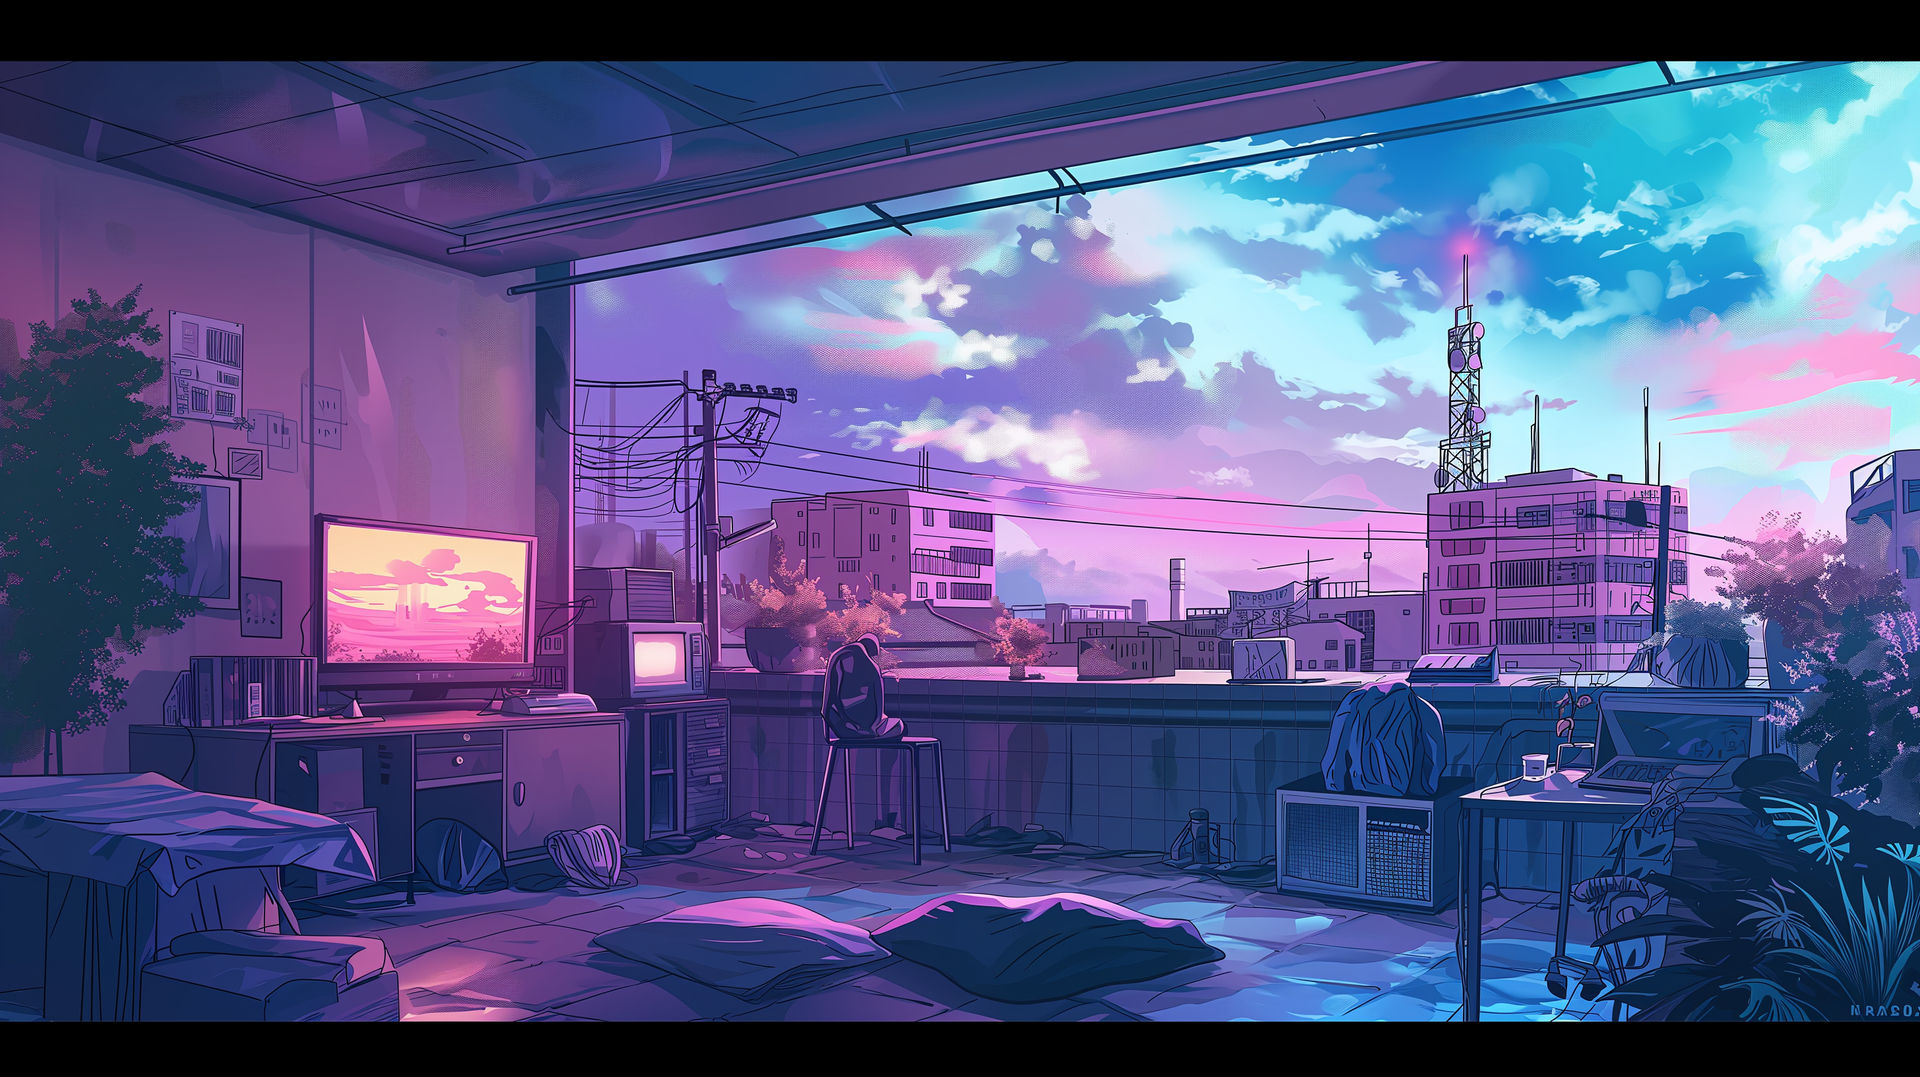
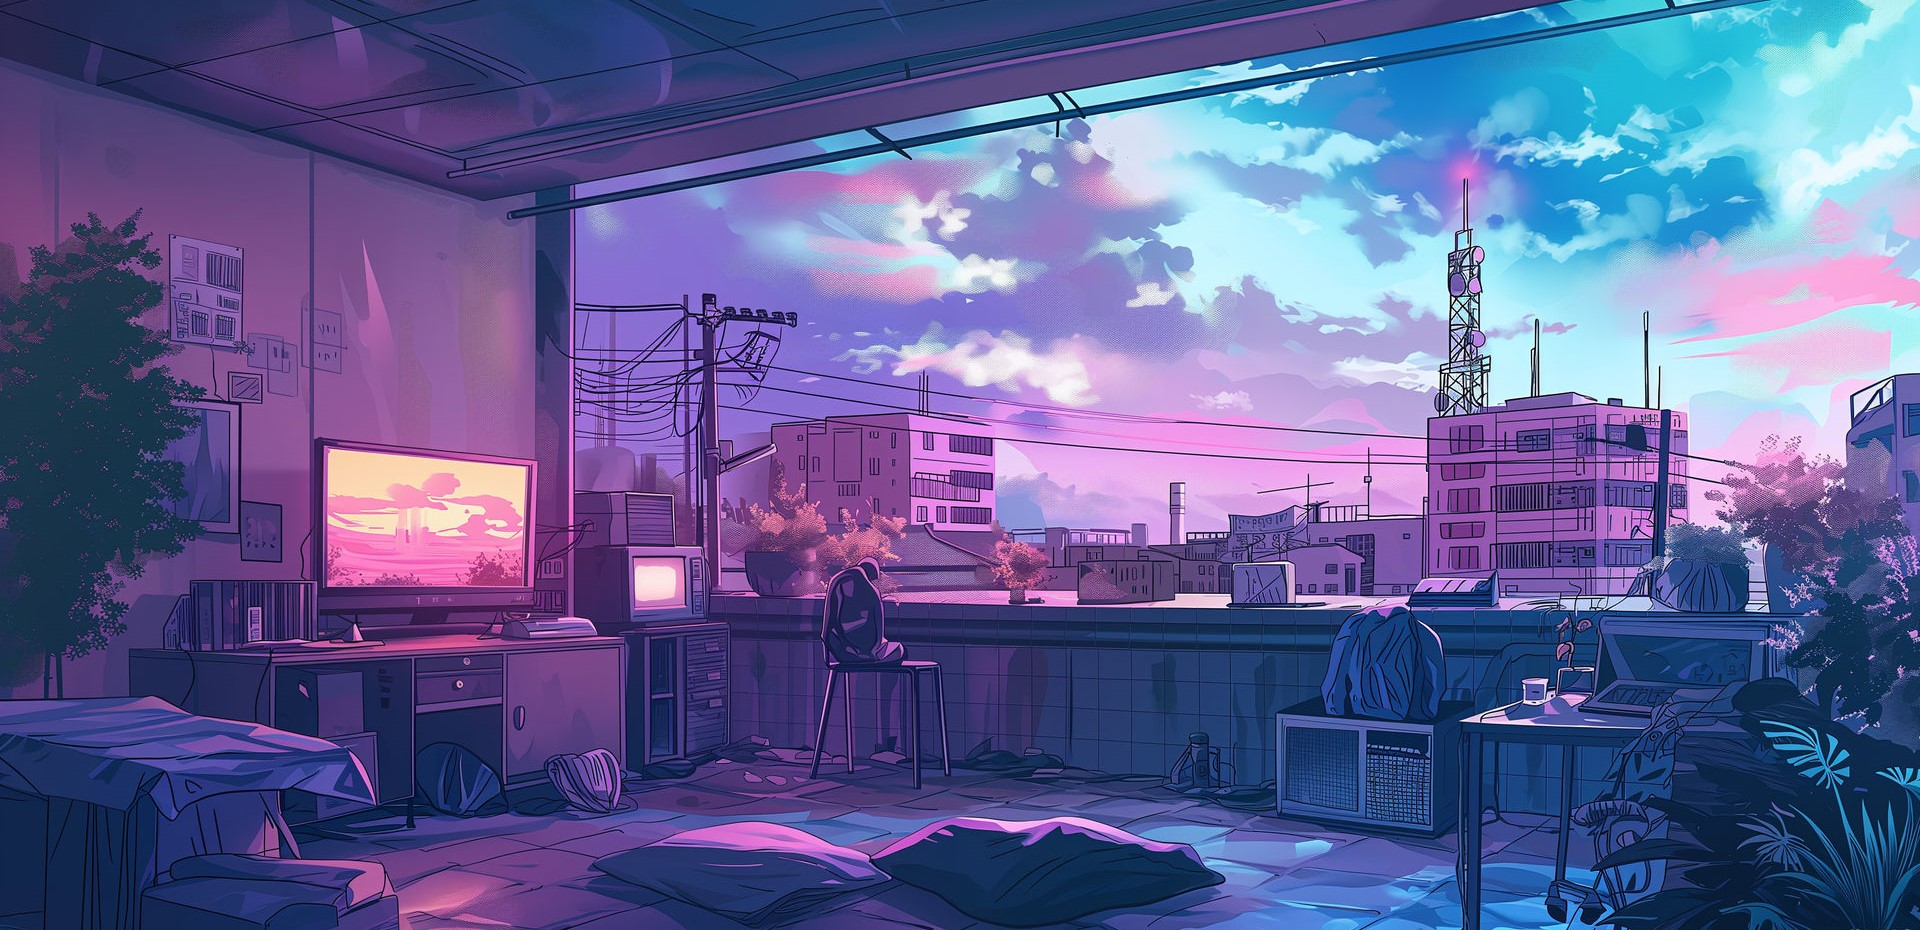
Title page redo
Removed scroll animation
Cropped background image
Started "Explore Collection" section

diff --git a/homepage.css b/homepage.css
@@ -3,18 +3,29 @@
 }
 
 ul.nav_bar {
-    position: fixed;
+    /* position: fixed;
     width: 100%;
     animation-name: fadeIn;
     animation-duration: 0.1s;
     animation-iteration-count: 1;
     animation-timeline: view(60vh);
-    animation-fill-mode: forwards;
+    animation-fill-mode: forwards; */
+    list-style-type: none;
+    margin: 0;
+    padding: 0px;
+    display: flex;
+    background-color: rgb(255, 255, 255);
+    color: rgb(52, 20, 104);
+    min-height: 100px;
+    align-items: center;
+    flex-wrap: nowrap;
+    justify-content: center;
 }
 
 ul.nav_bar li {
     margin-right: 5vw;
-    margin-right: 5vw;
+    margin-left: 5vw;
+    padding: 10px;
 }
 
 @keyframes fadeIn {
@@ -24,20 +35,15 @@ ul.nav_bar li {
     }
 
     to {
-        list-style-type: none;
-        margin: 0;
-        padding: 0;
-        display: flex;
-        background-color: rgb(0, 0, 0);
-        color: aliceblue;
-        min-height: 150px;
-        align-items: center;
-        display: flex;
-        flex-wrap: nowrap;
-        justify-content: center;
         opacity: 1;
     }
 
+}
+
+.title {
+    font-size: 60px;
+    flex-grow: 2;
+    text-align: center;
 }
 
 
@@ -53,33 +59,50 @@ ul.nav_bar li {
     /* display: flex; */
     height: 120vh;
     width: 100vw;
-    background-image: url('assets/background.jpg'),
+    background-image: url('assets/background.jpg')
+        /*,
         linear-gradient(to right, rgba(0, 0, 0, 0) 90vw, rgb(0, 0, 0) 98vw),
         linear-gradient(to left, rgba(0, 0, 0, 0) 90vw, rgb(0, 0, 0) 98vw),
         linear-gradient(to top, rgba(0, 0, 0, 0) 100vh, rgb(0, 0, 0) 115vh),
-        linear-gradient(to bottom, rgba(0, 0, 0, 0) 100vh, rgb(0, 0, 0) 115vh);
+        linear-gradient(to bottom, rgba(0, 0, 0, 0) 100vh, rgb(0, 0, 0) 115vh)*/
+    ;
     background-blend-mode: overlay;
     background-repeat: no-repeat;
     background-size: cover;
     background-position: center;
 
-    /* align-items: center; */
-    /* justify-content: center; */
+    align-items: center;
+    justify-content: center;
 
 
 }
 
-.background header {
+.explore {
+    height: 100vh;
+    display: flex;
+
+}
+
+.explore-title {
+    margin: 50px;
+    text-align: center;
+    font-size: 50px;
+    width: 100%;
+    height: 100px;
+    flex-grow: 1;
+}
+
+/* .background header {
     top: 30vh;
     text-align: center;
     color: aliceblue;
-    height: 250px;
+    height: 300px;
     position: relative;
     font-size: 150px;
     font-family: "Playwrite IS";
-}
+} */
 
-.scroll-title {
+/* .scroll-title {
     animation-name: scroll-title;
     animation-duration: 0.1s;
     animation-iteration-count: 1;
@@ -91,12 +114,13 @@ ul.nav_bar li {
 @keyframes scroll-title {
 
     to {
-        position: relative;
-        transform: translateY(0px), translateX(100px);
+        position: fixed;
+        transform: translateY(0px);
         font-size: 80px;
+
     }
 
-}
+} */
 
 
 .fadeIn {

diff --git a/CoComfy.html b/CoComfy.html
@@ -15,9 +15,13 @@
     <div class="background">
         <ul class="nav_bar">
             <li>Contact Us</li>
+            <li class="title">CoComfy</li>
             <li>Search</li>
         </ul>
-        <header class="scroll-title">CoComfy</header>
+    </div>
+
+    <div class="explore">
+        <header2 class="explore-title">Explore the Collection</header2>
     </div>
     <div>hello</div>
     <div>hello</div>
